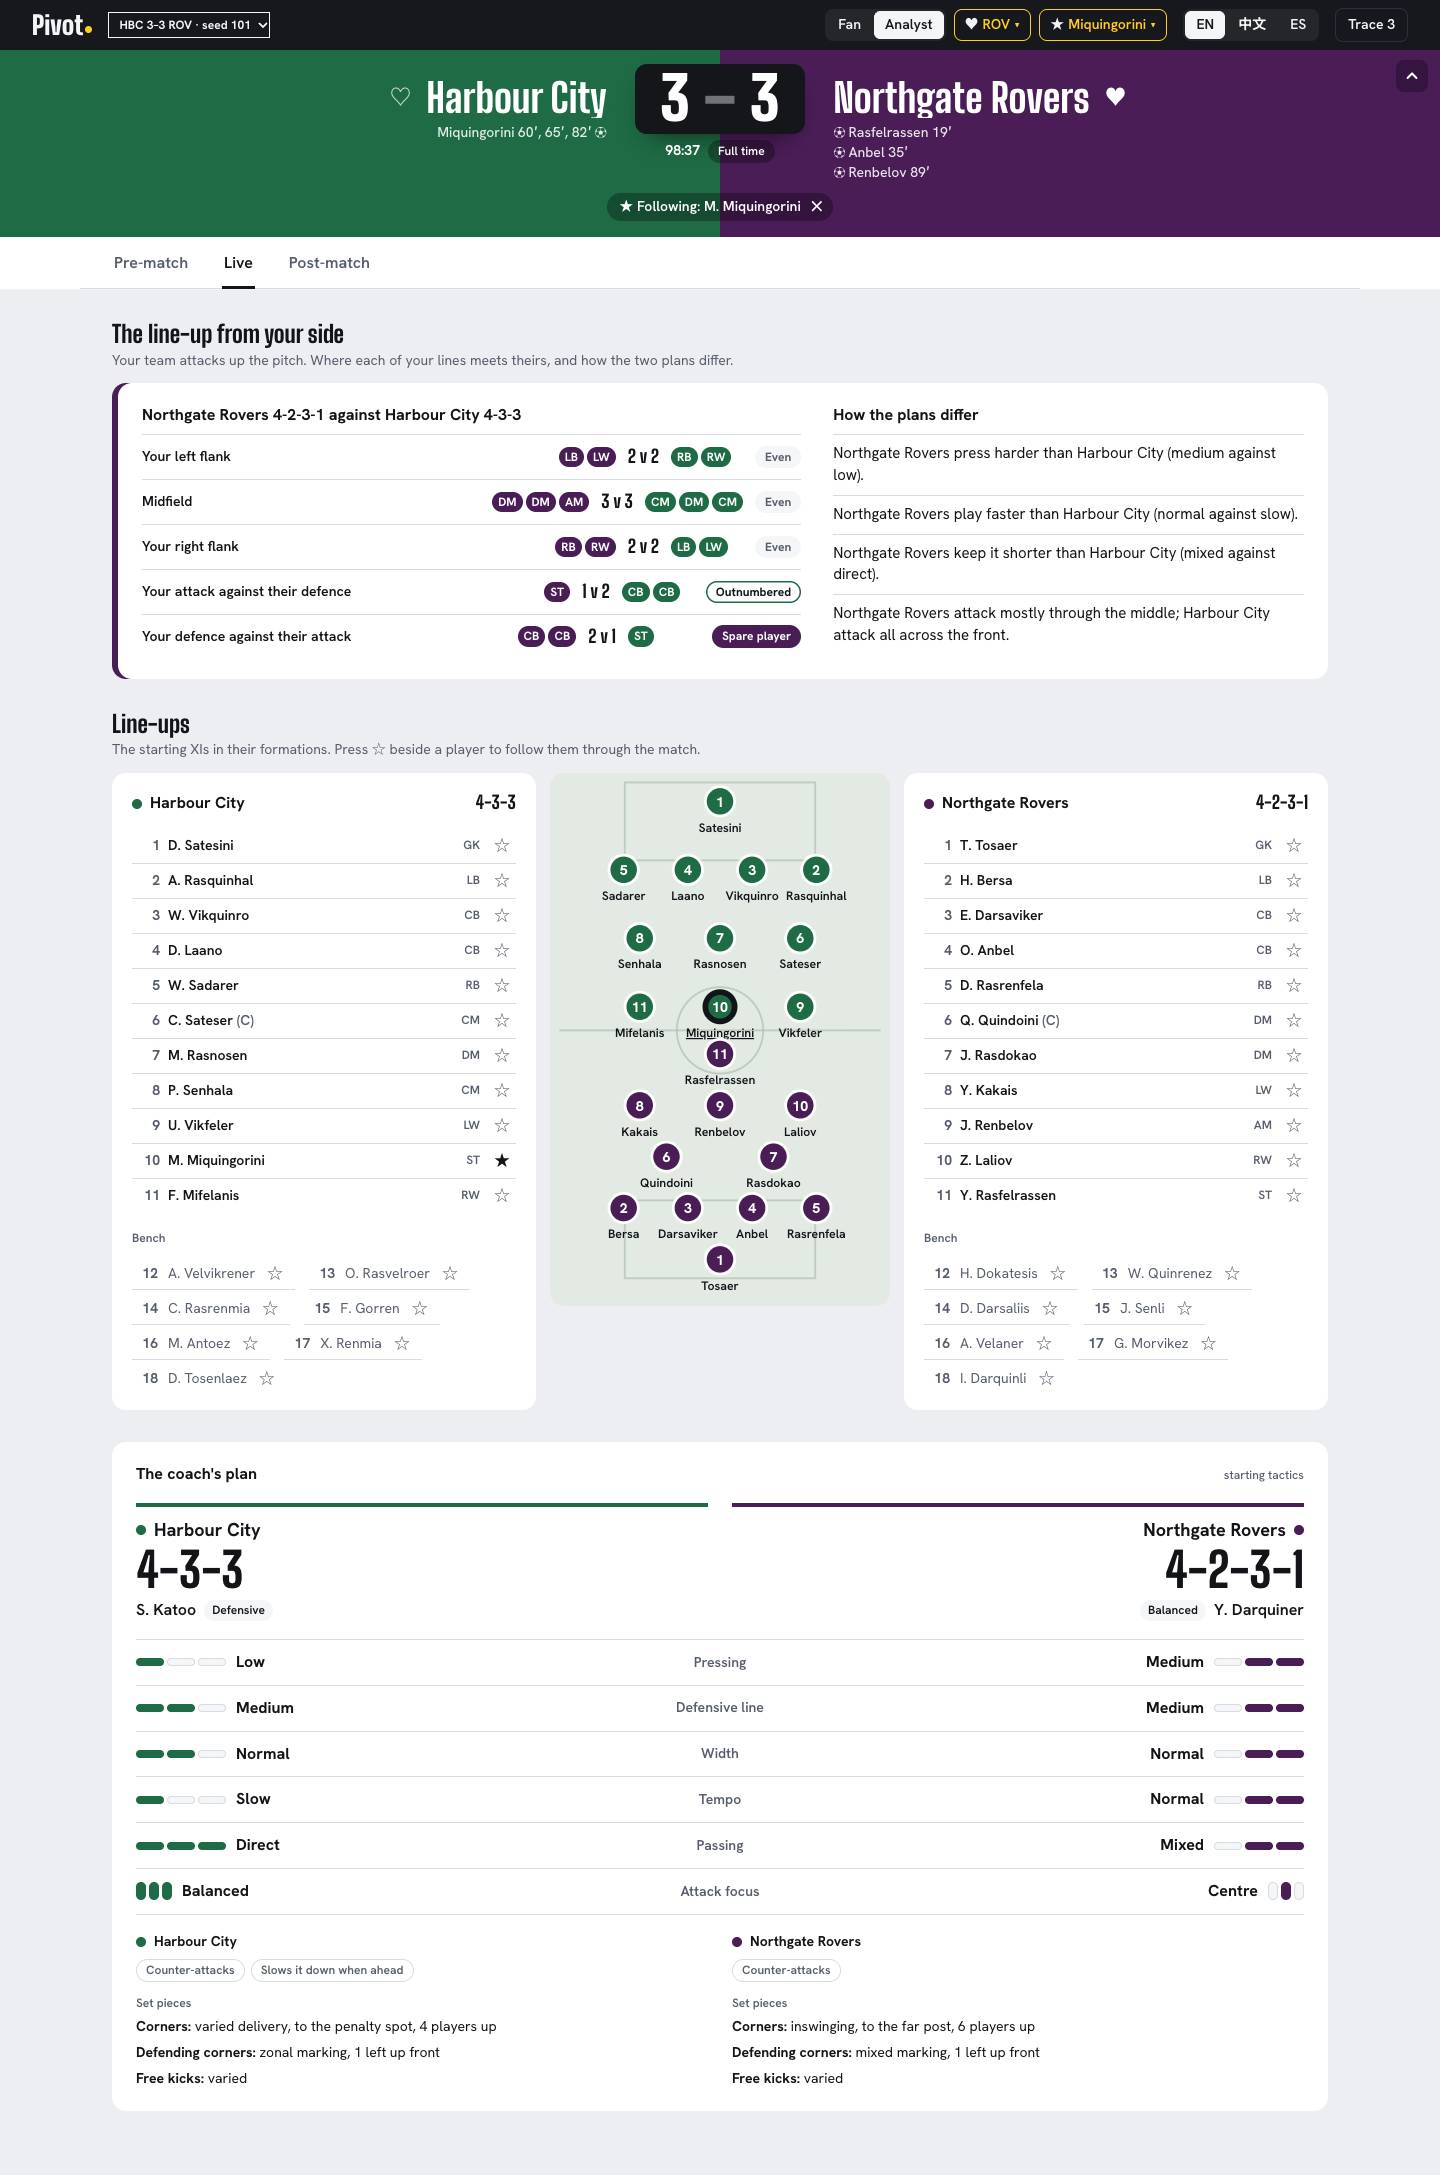
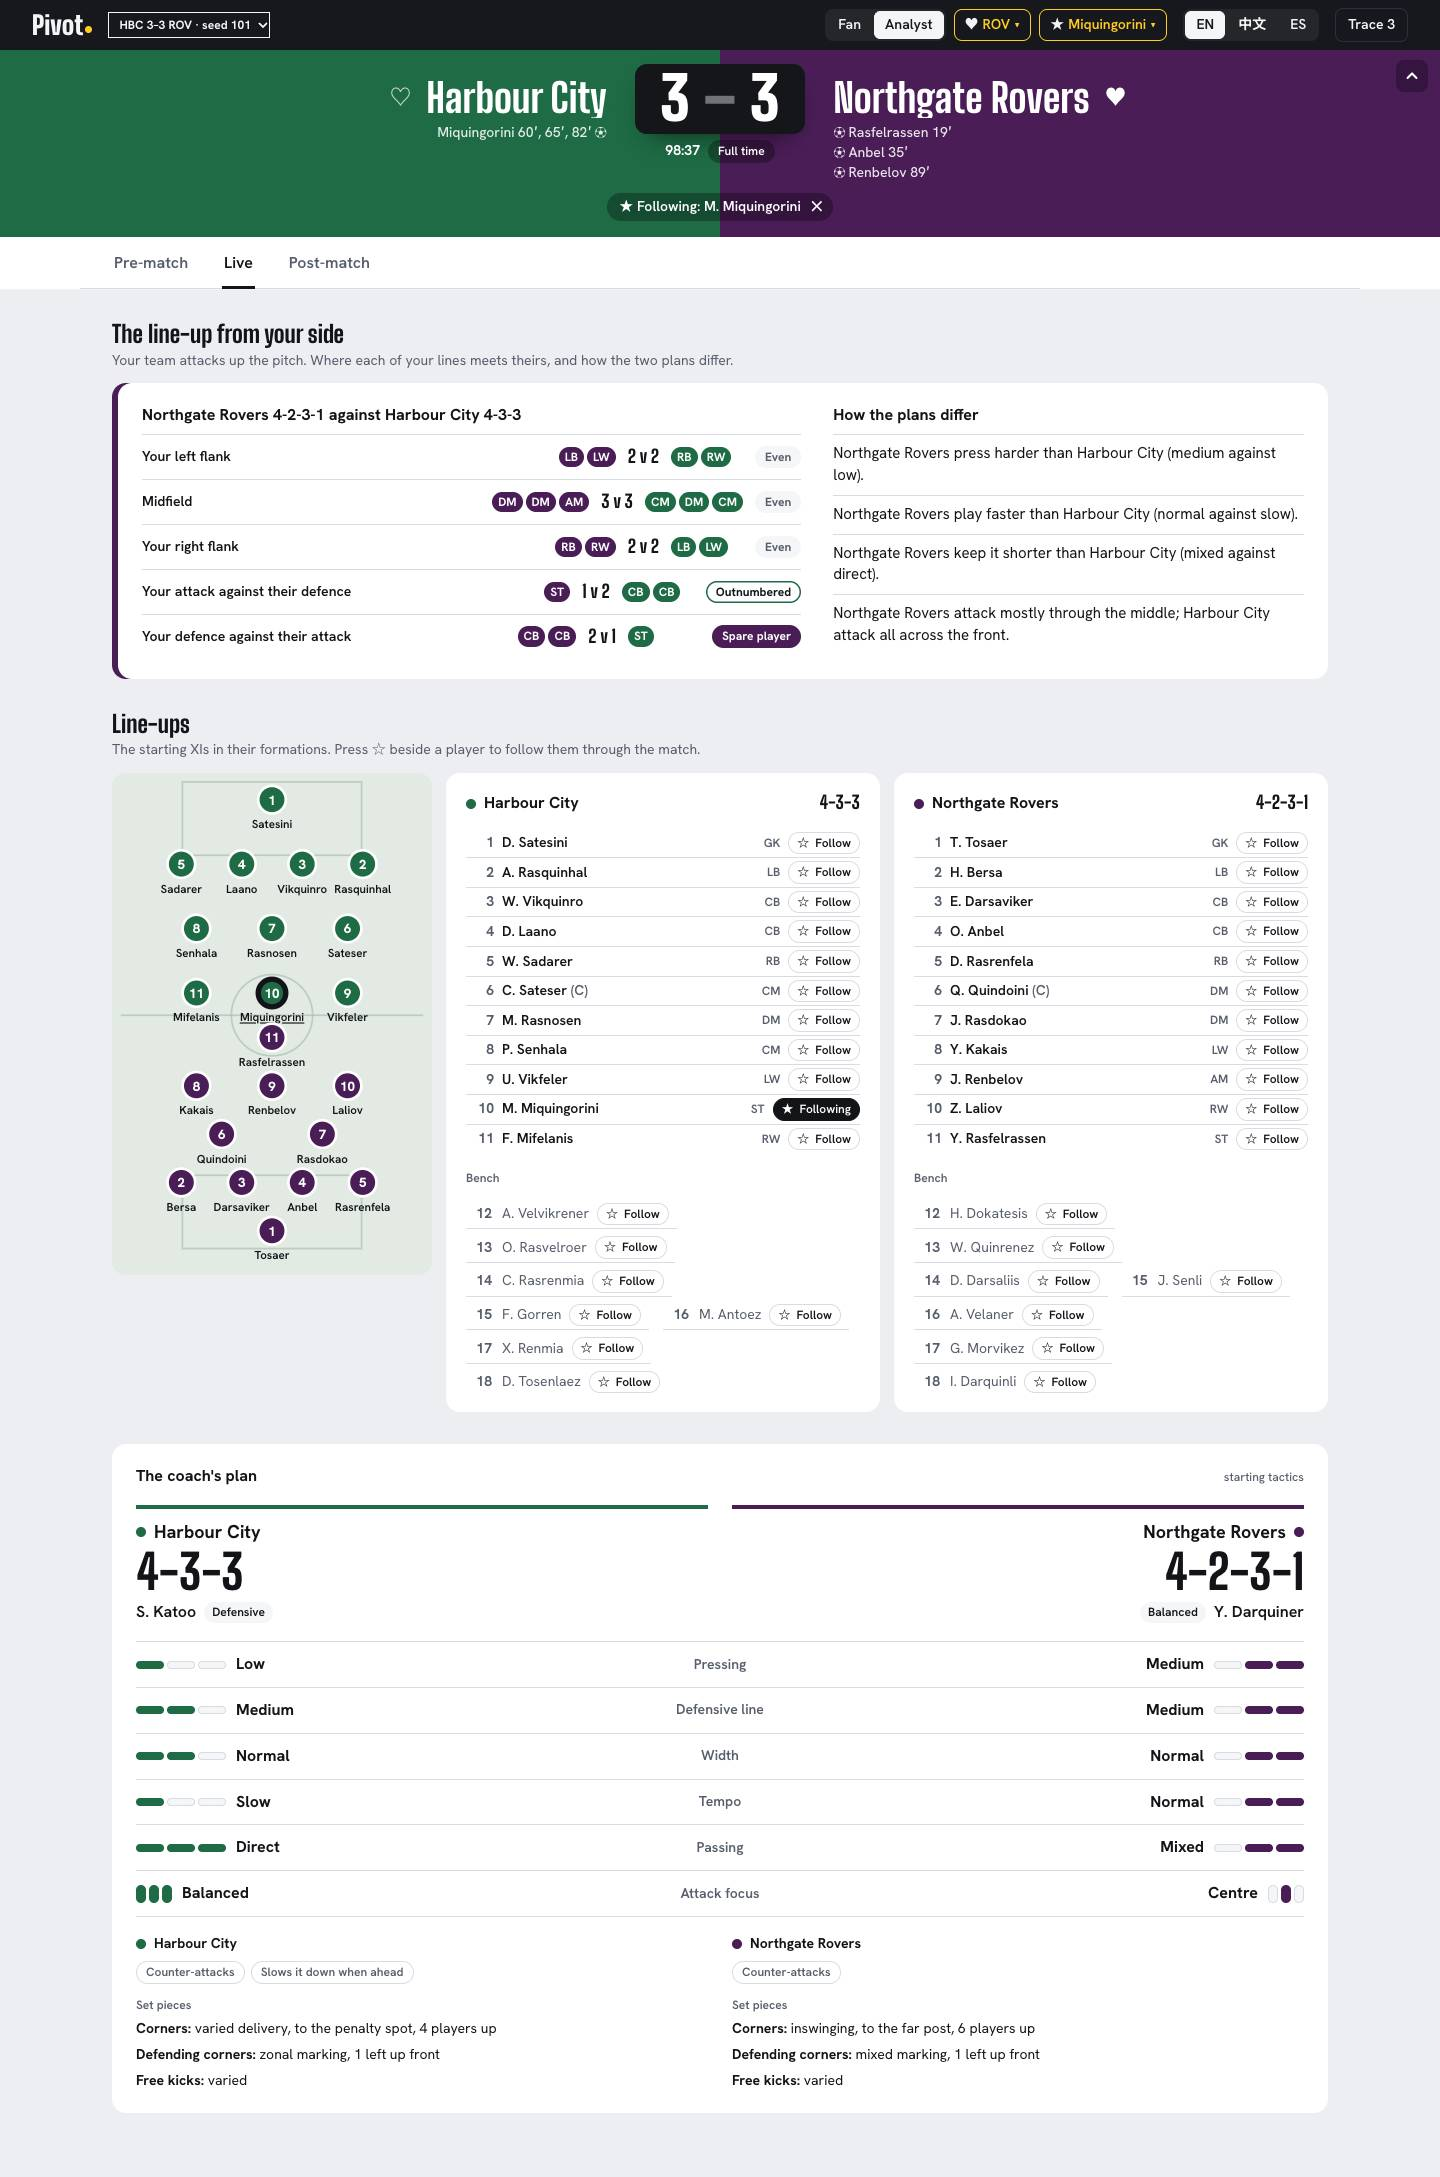
Ax69: the line-ups list and the pitch's player panel use the shared FollowButton (#324) instead of a second ☆

diff --git a/apps/web/src/components/Lineups.tsx b/apps/web/src/components/Lineups.tsx
@@ -3,11 +3,11 @@
 // Places come from the formation's rows, or the team sheet's anchors when the rows do not add up;
 // the fixture has no sheets and gets the squad lists only.
 // C11 (Ax63): each team in its kit colour from the page's tokens, so the night theme lightens it too.
-// Ax69: on the line-ups tab the ♥ team attacks up the page, and each player has a ☆ to follow him.
+// Ax69: on the line-ups tab the ♥ team attacks up the page, and each player has the shared ☆ Follow button (#324).
 import type { TeamSheet } from "@pivot/contracts";
-import { toggled } from "../data/matchup";
 import { useMatch, type Side, type SquadPlayer } from "../data/match";
 import { usePrefs, useT } from "../i18n";
+import FollowButton from "./FollowButton";
 import { surname } from "./FocusPickers";
 import "../styles/prematch.css";
 
@@ -41,20 +41,6 @@ function formationPlaces(side: Side, sheet: TeamSheet): Map<string, [number, num
     }
   });
   return out;
-}
-
-/** The ☆ beside a player: follows him, or stops following him when he is the ★ player already. */
-export function FollowStar({ player }: { player: SquadPlayer }) {
-  const { prefs, setPrefs, t } = usePrefs();
-  const on = prefs.focus_player_id === player.player_id;
-  return (
-    <button type="button" className={`lu-star${on ? " on" : ""}`} aria-pressed={on}
-      aria-label={t(on ? "lu.unfollow" : "lu.follow", { player: player.name })}
-      title={t(on ? "lu.unfollow" : "lu.follow", { player: player.name })}
-      onClick={() => setPrefs({ ...prefs, focus_player_id: toggled(prefs.focus_player_id, player.player_id) })}>
-      {on ? "★" : "☆"}
-    </button>
-  );
 }
 
 function FormationPitch({ sheets, up = "home", followed = null }: { sheets: Record<Side, TeamSheet>; up?: Side; followed?: string | null }) {
@@ -114,7 +100,7 @@ function TeamList({ side, sheet, follow }: { side: Side; sheet?: TeamSheet; foll
             <span className="no num">{p.shirt ?? ""}</span>
             <span className="nm">{p.name}{sheet?.captain_id === p.player_id && <abbr title={t("pre.captain")}> (C)</abbr>}</span>
             <span className="rl">{p.slotRole ?? p.role ?? ""}</span>
-            {follow && <FollowStar player={p} />}
+            {follow && <FollowButton playerId={p.player_id} name={p.name} />}
           </li>
         ))}
       </ol>
@@ -123,7 +109,7 @@ function TeamList({ side, sheet, follow }: { side: Side; sheet?: TeamSheet; foll
           <h4>{t("pre.bench")}</h4>
           <ul className="lu-bench">
             {bench.map((p) => (
-              <li key={p.player_id}><span className="no num">{p.shirt ?? ""}</span> {p.name}{follow && <FollowStar player={p} />}</li>
+              <li key={p.player_id}><span className="no num">{p.shirt ?? ""}</span> {p.name}{follow && <FollowButton playerId={p.player_id} name={p.name} />}</li>
             ))}
           </ul>
         </>
@@ -139,7 +125,7 @@ export default function Lineups({ up = "home", follow = false }: { up?: Side; fo
   // The team at the bottom of the pitch is listed first.
   const order: Side[] = up === "home" ? ["home", "away"] : ["away", "home"];
   return (
-    <div className={`lineups${sheets ? "" : " no-sheet"}${follow ? " follow" : ""}`}>
+    <div className={`lineups${sheets ? "" : " no-sheet"}${follow ? " with-follow" : ""}`}>
       {sheets && <FormationPitch sheets={sheets} up={up} followed={prefs.focus_player_id} />}
       {order.map((s) => <TeamList key={s} side={s} sheet={sheets?.[s]} follow={follow} />)}
     </div>

diff --git a/apps/web/src/pages/overview-lineups.test.tsx b/apps/web/src/pages/overview-lineups.test.tsx
@@ -6,6 +6,7 @@ import { renderToStaticMarkup } from "react-dom/server";
 import { MemoryRouter } from "react-router-dom";
 import { afterEach, describe, expect, it } from "vitest";
 import type { TeamSheet, TeamTactics } from "@pivot/contracts";
+import { PlayerDetail } from "../components/PitchBoard";
 import ScoreHeader from "../components/ScoreHeader";
 import { FixtureProvider } from "../data/match";
 import { lines, tacticsDiff, toggled } from "../data/matchup";
@@ -123,8 +124,8 @@ describe("the line-ups tab", () => {
   it("puts a ☆ beside every player, and a ★ on the followed one", () => {
     const html = render("?fixture=1&from=95&tab=lineups&player=hcy-9");
     expect(html).toContain('aria-label="Follow C. Nkemelu"');
-    expect(html).toMatch(/class="lu-star on" aria-pressed="true" aria-label="Stop following D. Okafor"[^>]*>★/);
-    expect(html.match(/class="lu-star on"/g)).toHaveLength(1);
+    expect(html).toMatch(/class="follow on" aria-pressed="true" aria-label="Stop following D. Okafor"><span aria-hidden="true">★/);
+    expect(html.match(/class="follow on"/g)).toHaveLength(1);
     expect(toggled("hcy-9", "hcy-9")).toBeNull();
     expect(toggled("hcy-9", "hcy-7")).toBe("hcy-7");
   });
@@ -139,6 +140,16 @@ describe("the line-ups tab", () => {
 
 const sheet = (formation: string, roles: TeamSheet["starters"][number]["role"][]): TeamSheet =>
   ({ formation, starters: roles.map((role, slot) => ({ player_id: `p${slot}`, slot, role, anchor: [0, 0] })), bench: [] }) as unknown as TeamSheet;
+
+describe("the player clicked on the pitch", () => {
+  it("has the shared Follow button", () => {
+    const player = { player_id: "hcy-9", name: "D. Okafor", shirt: 9 };
+    const off = render("?fixture=1&from=95", <PlayerDetail player={player} role={undefined} onBack={() => {}} />);
+    expect(off).toContain('class="follow" aria-pressed="false" aria-label="Follow D. Okafor"');
+    const on = render("?fixture=1&from=95&player=hcy-9", <PlayerDetail player={player} role={undefined} onBack={() => {}} />);
+    expect(on).toContain('class="follow on" aria-pressed="true"');
+  });
+});
 
 describe("the matchup from your side", () => {
   const home = sheet("4-3-3", ["GK", "LB", "CB", "CB", "RB", "CM", "DM", "CM", "LW", "ST", "RW"]);

diff --git a/apps/web/src/styles/base.css b/apps/web/src/styles/base.css
@@ -663,11 +663,13 @@ details.more > summary small { font-weight: 600; text-transform: none; color: va
 .lu-list .no { text-align: right; font-family: var(--pv-label); font-weight: 700; color: var(--pv-ink-2); }
 .lu-list .nm { font-weight: 600; min-width: 0; overflow-wrap: anywhere; }
 .lu-list abbr { text-decoration: none; color: var(--pv-ink-2); }
-.lineups.follow .lu-list li { grid-template-columns: 2em minmax(0, 1fr) auto auto; align-items: center; }
-.lu-star { display: inline-grid; place-items: center; width: 28px; height: 28px; padding: 0; border: 0; border-radius: 50%; background: transparent; color: var(--pv-ink-2); font: inherit; font-size: 16px; line-height: 1; cursor: pointer; }
-.lu-star:hover { background: var(--pv-sunk); color: var(--pv-ink); }
-.lu-star.on { color: var(--pv-ink); }
-.lu-bench .lu-star { width: 24px; height: 24px; vertical-align: middle; }
+.lineups.with-follow .lu-list li { grid-template-columns: 2em minmax(0, 1fr) auto auto; align-items: center; }
+.lu-list .follow { padding: 1px 8px; font-size: var(--pv-fs-xs); }
+.lineups.with-follow .lu-list { min-width: 0; }
+/* With a Follow button on every row the lists need more room than the pitch: pitch first, then both lists. */
+@media (min-width: 901px) {
+  .lineups.with-follow:not(.no-sheet) { grid-template-columns: minmax(220px, 320px) minmax(0, 1fr) minmax(0, 1fr); grid-template-areas: "pitch home away"; }
+}
 .lu-team .followed circle { stroke: var(--pv-ink); stroke-width: 1.2; }
 .lu-team .followed .lu-nm { text-decoration: underline; }
 .lu-list .rl { font-family: var(--pv-label); font-weight: 700; font-size: var(--pv-fs-xs); color: var(--pv-ink-2); }

diff --git a/apps/web/src/components/PitchBoard.tsx b/apps/web/src/components/PitchBoard.tsx
@@ -9,6 +9,7 @@ import { usePrefs, useT, type MessageKey } from "../i18n";
 import Card from "./Card";
 import ControlBar, { barKey, type BarMark } from "./ControlBar";
 import { describe } from "./EventFeed";
+import FollowButton from "./FollowButton";
 import { EventCues, smoothFor, usePitchMotion } from "./motion";
 import Pitch, { whoFromSquads } from "./Pitch";
 import { PlayerNumbers, usePlayerReport } from "./PlayerCard";
@@ -329,6 +330,7 @@ export function PlayerDetail({ player, role, onBack }: { player: SquadPlayer; ro
           <span className="pd-nm">{player.name}</span>
           <small className="muted">{[teams[side].name, role ?? player.role].filter(Boolean).join(" · ")} · 0′–{at(upTo ?? match.clock)}′</small>
         </span>
+        <FollowButton playerId={player.player_id} name={player.name} />
       </div>
       {report === null ? <p className="muted">{t("board.rosterNoStats")}</p> : <PlayerNumbers report={report} />}
     </div>

diff --git a/apps/web/src/i18n/messages/es.ts b/apps/web/src/i18n/messages/es.ts
@@ -956,8 +956,6 @@ export const es: Messages = {
   "follow.teamOff": "Dejar de seguir a {team}",
   "follow.chip": "Siguiendo a: {player}",
   "follow.stop": "Dejar de seguir a {player}",
-  "lu.follow": "Seguir a {player}",
-  "lu.unfollow": "Dejar de seguir a {player}",
   "lu.note": "Los onces iniciales en su sistema. Pulsa ☆ junto a un jugador para seguirlo todo el partido.",
   "mu.title": "La alineación desde tu lado",
   "mu.note": "Tu equipo ataca hacia arriba. Dónde se cruza cada línea tuya con la suya y en qué se diferencian los dos planes.",

diff --git a/apps/web/src/i18n/messages/en.ts b/apps/web/src/i18n/messages/en.ts
@@ -955,8 +955,6 @@ export const en = {
   "follow.teamOff": "Stop following {team}",
   "follow.chip": "Following: {player}",
   "follow.stop": "Stop following {player}",
-  "lu.follow": "Follow {player}",
-  "lu.unfollow": "Stop following {player}",
   "lu.note": "The starting XIs in their formations. Press ☆ beside a player to follow them through the match.",
   "mu.title": "The line-up from your side",
   "mu.note": "Your team attacks up the pitch. Where each of your lines meets theirs, and how the two plans differ.",

diff --git a/apps/web/src/i18n/messages/zh.ts b/apps/web/src/i18n/messages/zh.ts
@@ -954,8 +954,6 @@ export const zh: Messages = {
   "follow.teamOff": "取消关注{team}",
   "follow.chip": "正在关注：{player}",
   "follow.stop": "取消关注{player}",
-  "lu.follow": "关注{player}",
-  "lu.unfollow": "取消关注{player}",
   "lu.note": "两队首发和阵型。点球员旁边的 ☆，整场比赛都跟着这名球员看。",
   "mu.title": "从你这队看排兵布阵",
   "mu.note": "你的球队朝上进攻。你的每条线对上对方哪条线，两队的打法差在哪。",

diff --git a/apps/web/src/styles/pitch-board.css b/apps/web/src/styles/pitch-board.css
@@ -54,3 +54,4 @@
 .roster-detail .player-stats { grid-template-columns: repeat(auto-fill, minmax(96px, 1fr)); }
 /* Back gets focus when the card swaps; keep it clear of the sticky match header when that scrolls it into view. */
 .pd-back { scroll-margin-top: 280px; }
+.pd-hd > .follow { margin-left: auto; flex: none; }
